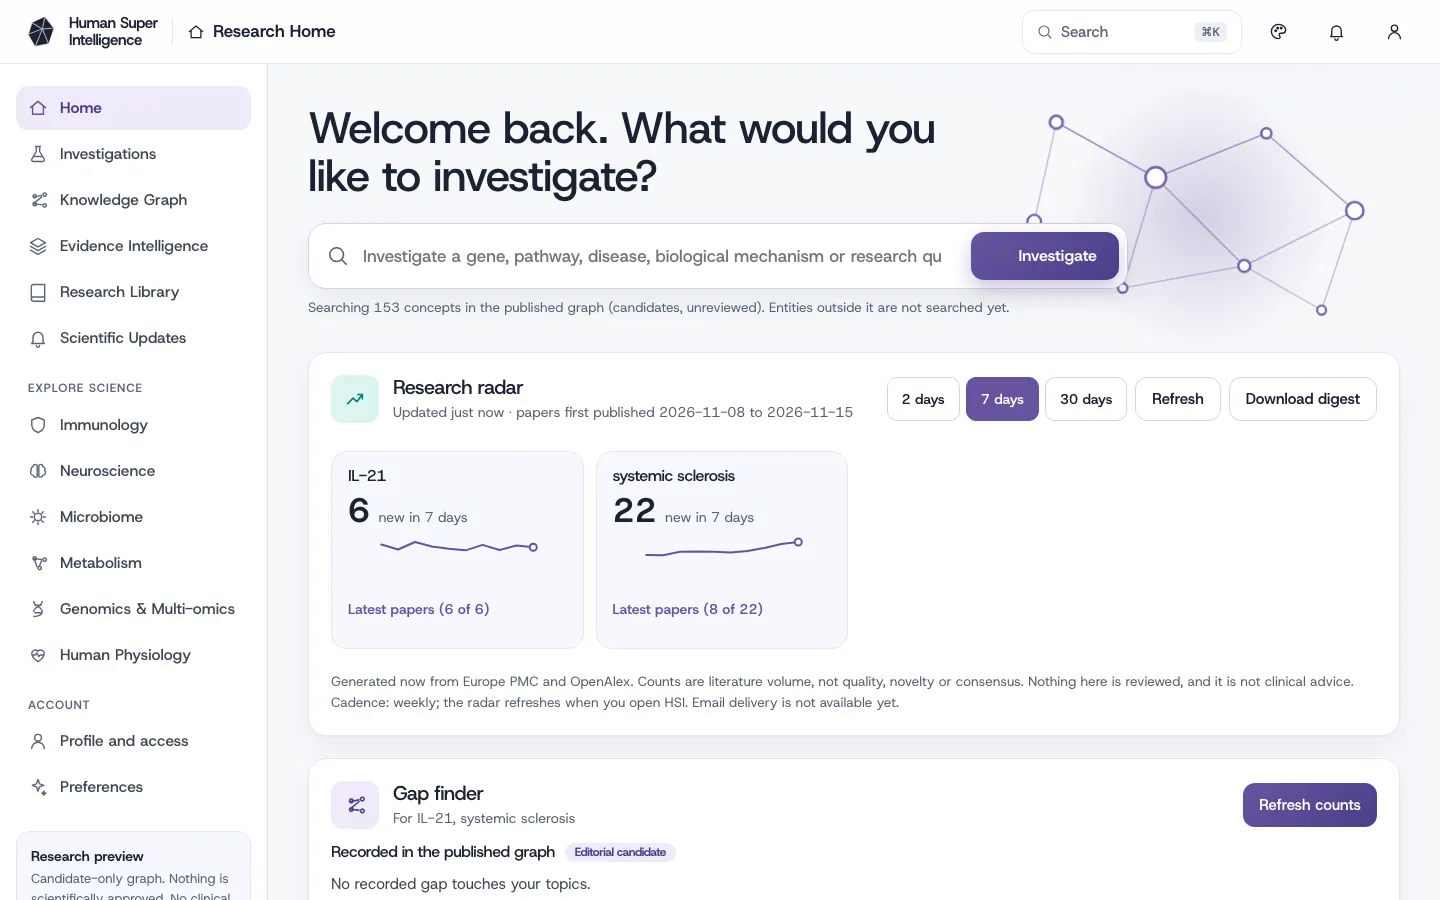
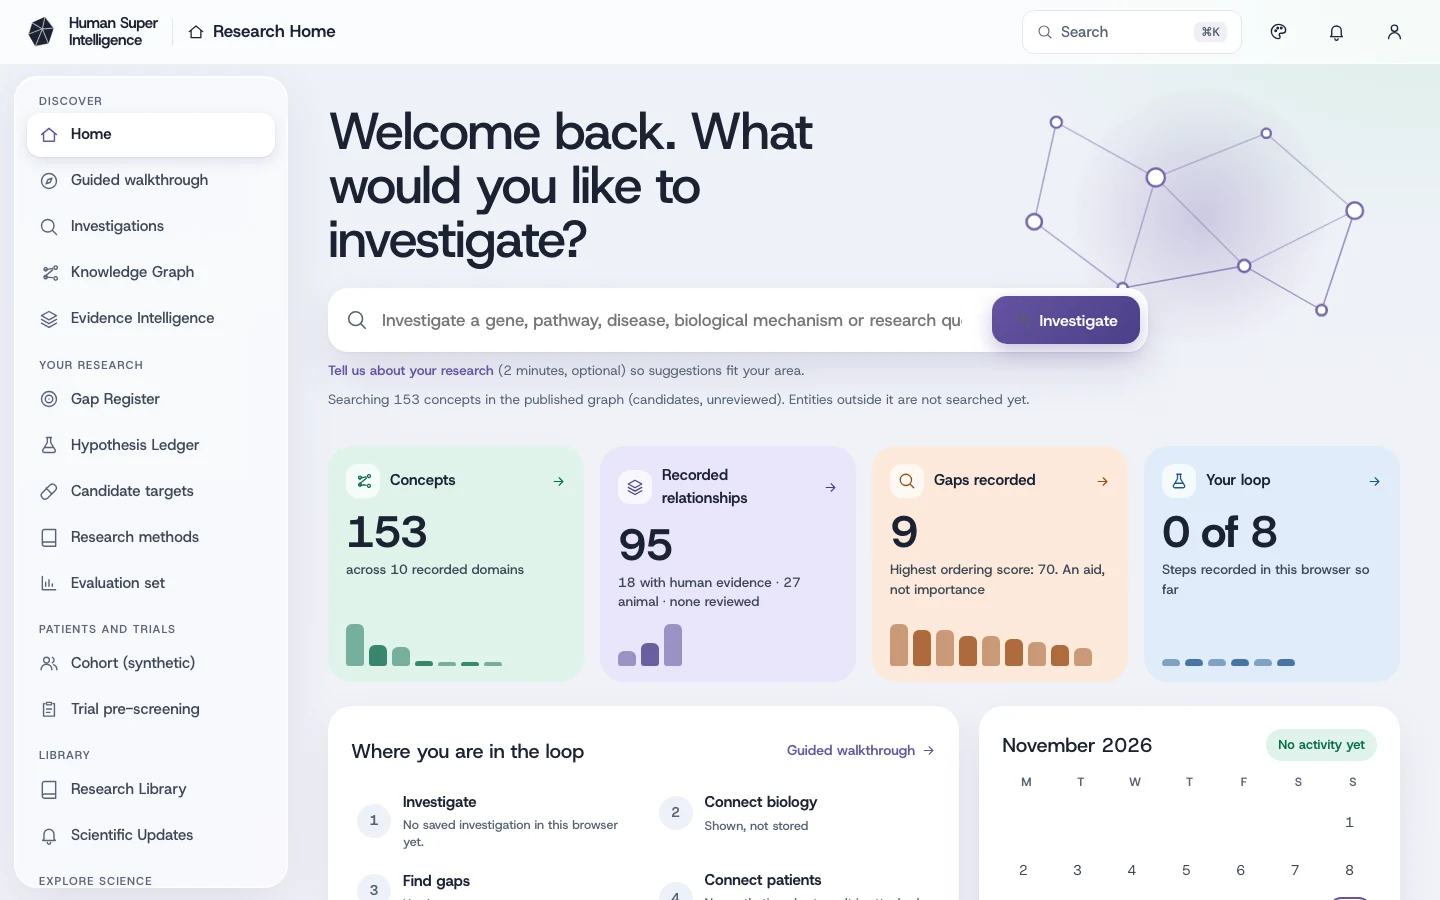
Restyle Contact; refresh home, radar, gaps and welcome screenshots from the new UI

diff --git a/site/src/components/home/ProductStory.tsx b/site/src/components/home/ProductStory.tsx
@@ -17,7 +17,7 @@ export function StoryHero(){
     <p className="ps-micro">No account needed to start. Your set-up is saved on your device.</p>
    </div>
    <figure className="ps-hero-shot">
-    <Shot name="home" w={1440} h={900} eager alt="The HSI research home: a search box, a research radar showing 6 new papers on IL-21 and 22 on systemic sclerosis in seven days with a ten-year publication trend, and a gap finder below."/>
+    <Shot name="home" w={1440} h={900} eager alt="The HSI research home: a glass sidebar, a search box and four overview tiles for concepts, recorded relationships, gaps and your loop progress."/>
     <figcaption>The research home, with live results for two example topics.</figcaption>
    </figure>
   </section>
@@ -27,9 +27,9 @@ export function StoryHero(){
 type Row={id:string;tag:string;title:string;points:string[];shot:{name:string;w:number;h:number;alt:string};note:string;link:{to:string;label:string}};
 export const ROWS:Row[]=[
  {id:"radar",tag:"Live now · no account",title:"See what is new in your area.",points:["New papers for each of your topics in the last 2, 7 or 30 days, with journal, date and retraction flags.","A ten-year publication trend, so you can tell a growing field from a settled one.","Your own papers from your ORCID iD, and a digest you can download."],
-  shot:{name:"radar",w:1092,h:386,alt:"The research radar: IL-21 with 6 new papers in 7 days and systemic sclerosis with 22, each with a small publication trend line and an expandable list of the latest papers."},note:"Europe PMC and OpenAlex, generated when you open it. Counts are volume, not quality.",link:{to:"/welcome",label:"Set up your radar"}},
+  shot:{name:"radar",w:1072,h:405,alt:"The research radar: IL-21 with 6 new papers in 7 days and systemic sclerosis with 22, each with a small publication trend line and an expandable list of the latest papers."},note:"Europe PMC and OpenAlex, generated when you open it. Counts are volume, not quality.",link:{to:"/welcome",label:"Set up your radar"}},
  {id:"gaps",tag:"Live now · heuristic",title:"Find where the literature is thin.",points:["Gaps recorded in the verified graph appear on their own, with their source and a possible next study.","Under-explored intersections come from literature counts: both topics well studied, few papers on both.","Every row shows its counts and links to the exact search, so you can check it before you rely on it."],
-  shot:{name:"gaps",w:1092,h:760,alt:"The gap finder: systemic sclerosis with T follicular helper cells flagged as an under-explored intersection with 7 papers mentioning both, against 22,733 and 1,576 for each alone; IL-21 with B cells and T follicular helper cells shown as well covered."},note:"A low overlap can be a real gap, different wording, or little interest. It is a prompt to look, not a finding.",link:{to:"/knowledge-graph",label:"How the graph records gaps"}},
+  shot:{name:"gaps",w:1072,h:972,alt:"The gap finder: systemic sclerosis with T follicular helper cells flagged as an under-explored intersection with 7 papers mentioning both, against 22,733 and 1,576 for each alone; IL-21 with B cells and T follicular helper cells shown as well covered."},note:"A low overlap can be a real gap, different wording, or little interest. It is a prompt to look, not a finding.",link:{to:"/knowledge-graph",label:"How the graph records gaps"}},
  {id:"workspace",tag:"Preview · model checks are switched on per deployment",title:"Investigate with proof.",points:["Retrieval from Europe PMC, OpenAlex and Open Targets. A failed source is shown as failed, never as nothing found.","Two models check the direction of the best claims and must quote the passage. If they disagree or cannot tell, the claim stays unresolved.","Hypotheses are proposed only from agreed findings, challenged by a second model, and labelled unvalidated."],
   shot:{name:"workspace",w:1172,h:1480,alt:"The investigation workspace after a live run: 46 sources, 21 candidates and 2 key findings; evidence filters, a relationship map around IL-21, and a verification panel quoting the passage behind a positive finding that microRNA-155 increases IL-21 mediated STAT3 signalling in lupus."},note:"Screenshot from a run with model checks enabled. Everything stays candidate-only and unreviewed.",link:{to:"/research/workspace",label:"Open the workspace"}},
 ];
@@ -54,7 +54,7 @@ export function StoryStart(){
     <ul><li>Say what you are researching, add topics, genes or diseases.</li><li>Optionally add your ORCID iD or paste DOIs and PubMed IDs, so HSI can find your own papers.</li><li>Choose light or dark and an accent colour. No health information is asked for.</li></ul>
     <p className="ps-note">Everything is saved on this device. Account storage and email updates are not available yet, and the page says so.</p>
     <Link className="sp-button" to="/welcome">Set up your research home <span aria-hidden="true">→</span></Link></div>
-   <figure className="ps-fig"><Shot name="welcome" w={1200} h={860} alt="The set-up page, step two of four: a box for your research question and a field to add topics such as IL-21 and systemic sclerosis."/></figure>
+   <figure className="ps-fig"><Shot name="welcome" w={1440} h={900} alt="The set-up page: a summary panel showing what your home will start with, beside a short optional form about your role and research."/></figure>
   </section>
  );
 }

diff --git a/site/src/pages/ContactPublic.tsx b/site/src/pages/ContactPublic.tsx
@@ -2,6 +2,7 @@ import {Link} from "react-router-dom";
 import "../styles/scientific-public.css";
 import "../styles/home-redesign.css";
 import "../styles/contact-figure.css";
+import "../styles/premium-public.css";
 import {AccessIntentPanel} from "../components/AccessIntentPanel";
 import {signInHref,signUpHref} from "../lib/researchContext";
 
@@ -14,19 +15,19 @@ const path=[
 /** Contact: research access. A browser draft only; it never submits a request. */
 export function ContactPublicPage(){
   return (
-    <div className="sp-page fg-page ct-page">
-      <header className="fg-hook">
+    <div className="sp-page fg-page ct-page pg-page pg-sub">
+      <header className="pg-phero">
         <h1>Bring your next research question.</h1>
         <div>
-          <p className="fg-lead">Create an HSI account if you need one. The question form on this page saves a browser draft only and does not submit an access request or start an investigation. Researcher, source and scientific-review permissions are provisioned independently.</p>
-          <div className="sp-actions">
-            <Link className="sp-button" to={signUpHref()}>Create an account <span aria-hidden="true">→</span></Link>
-            <Link to={signInHref()}>Sign in →</Link>
+          <p className="pg-lead">Create an HSI account if you need one. The question form on this page saves a browser draft only and does not submit an access request or start an investigation. Researcher, source and scientific-review permissions are provisioned independently.</p>
+          <div className="pg-cta">
+            <Link className="pg-btn" to={signUpHref()}>Create an account <span aria-hidden="true">→</span></Link>
+            <Link className="pg-link" to={signInHref()}>Sign in <span aria-hidden="true">→</span></Link>
           </div>
         </div>
       </header>
 
-      <figure className="fg ct-figure" aria-labelledby="ct-cap">
+      <figure className="fg ct-figure pg-block" aria-labelledby="ct-cap">
         <ol className="ct-path">
           {path.map(([t,d],i)=>(
             <li key={t}>
@@ -39,7 +40,7 @@ export function ContactPublicPage(){
         <figcaption id="ct-cap" className="fg-cap"><b>Figure 5.</b> The access path. Each step is separate: an account does not grant research access, and an administrator's grant does not enable research writes. This page does not write an access request to HSI servers.</figcaption>
       </figure>
 
-      <section className="fg-block ct-draft" aria-labelledby="ct-draft">
+      <section className="fg-block ct-draft pg-block" aria-labelledby="ct-draft">
         <h2 id="ct-draft">Keep your question while you sign up.</h2>
         <div>
           <AccessIntentPanel />

diff --git a/site/src/styles/premium-public.css b/site/src/styles/premium-public.css
@@ -122,3 +122,19 @@
 .pg-page .hd-steps button[aria-current=step]{background:var(--lav);color:var(--lav-ink)}
 .pg-page .hd-inspector h3{font-size:30px;letter-spacing:-.025em}
 @media(max-width:1000px){.pg-page .hd-discovery{width:calc(100% - 40px);border-radius:24px}}
+/* contact: access path as pastel steps, draft form on a clean card */
+.pg-page .ct-path{display:grid;grid-template-columns:repeat(3,minmax(0,1fr));gap:16px;margin:0;padding:0;list-style:none;border:0}
+.pg-page .ct-path li{padding:26px;border:0;border-radius:28px;background:var(--mint);display:grid;gap:10px;align-content:start}
+.pg-page .ct-path li:nth-child(2){background:var(--lav)}.pg-page .ct-path li:nth-child(3){background:var(--peach)}
+.pg-page .ct-path h2{font-size:22px;letter-spacing:-.02em;margin:0}.pg-page .ct-path p{font-size:16px;line-height:1.6;color:var(--body);margin:0}
+.pg-page .ct-path .fg-letter{background:var(--ink);border-radius:50%;min-width:30px;height:30px}
+.pg-page .ct-figure .fg-cap{margin-top:16px;color:var(--muted);font-size:14px}
+.pg-page .ct-draft{display:grid;grid-template-columns:minmax(0,.8fr) minmax(0,1.2fr);gap:56px;align-items:start}
+.pg-page .ct-draft>div{padding:32px;border-radius:32px;background:#fff;box-shadow:0 1px 2px rgba(53,45,110,.04),0 24px 60px rgba(53,45,110,.08)}
+.pg-page .ct-page .xp-button,.pg-page.ct-page .ct-draft .xp-button{border-radius:999px!important;background:var(--ink)!important;border-color:var(--ink)!important}
+@media(max-width:1000px){.pg-page .ct-path{grid-template-columns:1fr}.pg-page .ct-draft{grid-template-columns:1fr;gap:24px}.pg-page .ct-draft>div{padding:22px}}
+.pg-page .ct-figure{border:0;background:transparent;box-shadow:none;padding:48px 0 0;margin-block:0}
+.pg-page .ct-figure::before,.pg-page .ct-figure::after,.pg-page .ct-path::before{display:none}
+.pg-page .ct-figure .fg-cap{border:0;padding:0;background:transparent}
+.pg-page .ct-path li{border-top:0}
+.pg-page .ct-path li::before,.pg-page .ct-path li::after{display:none}
